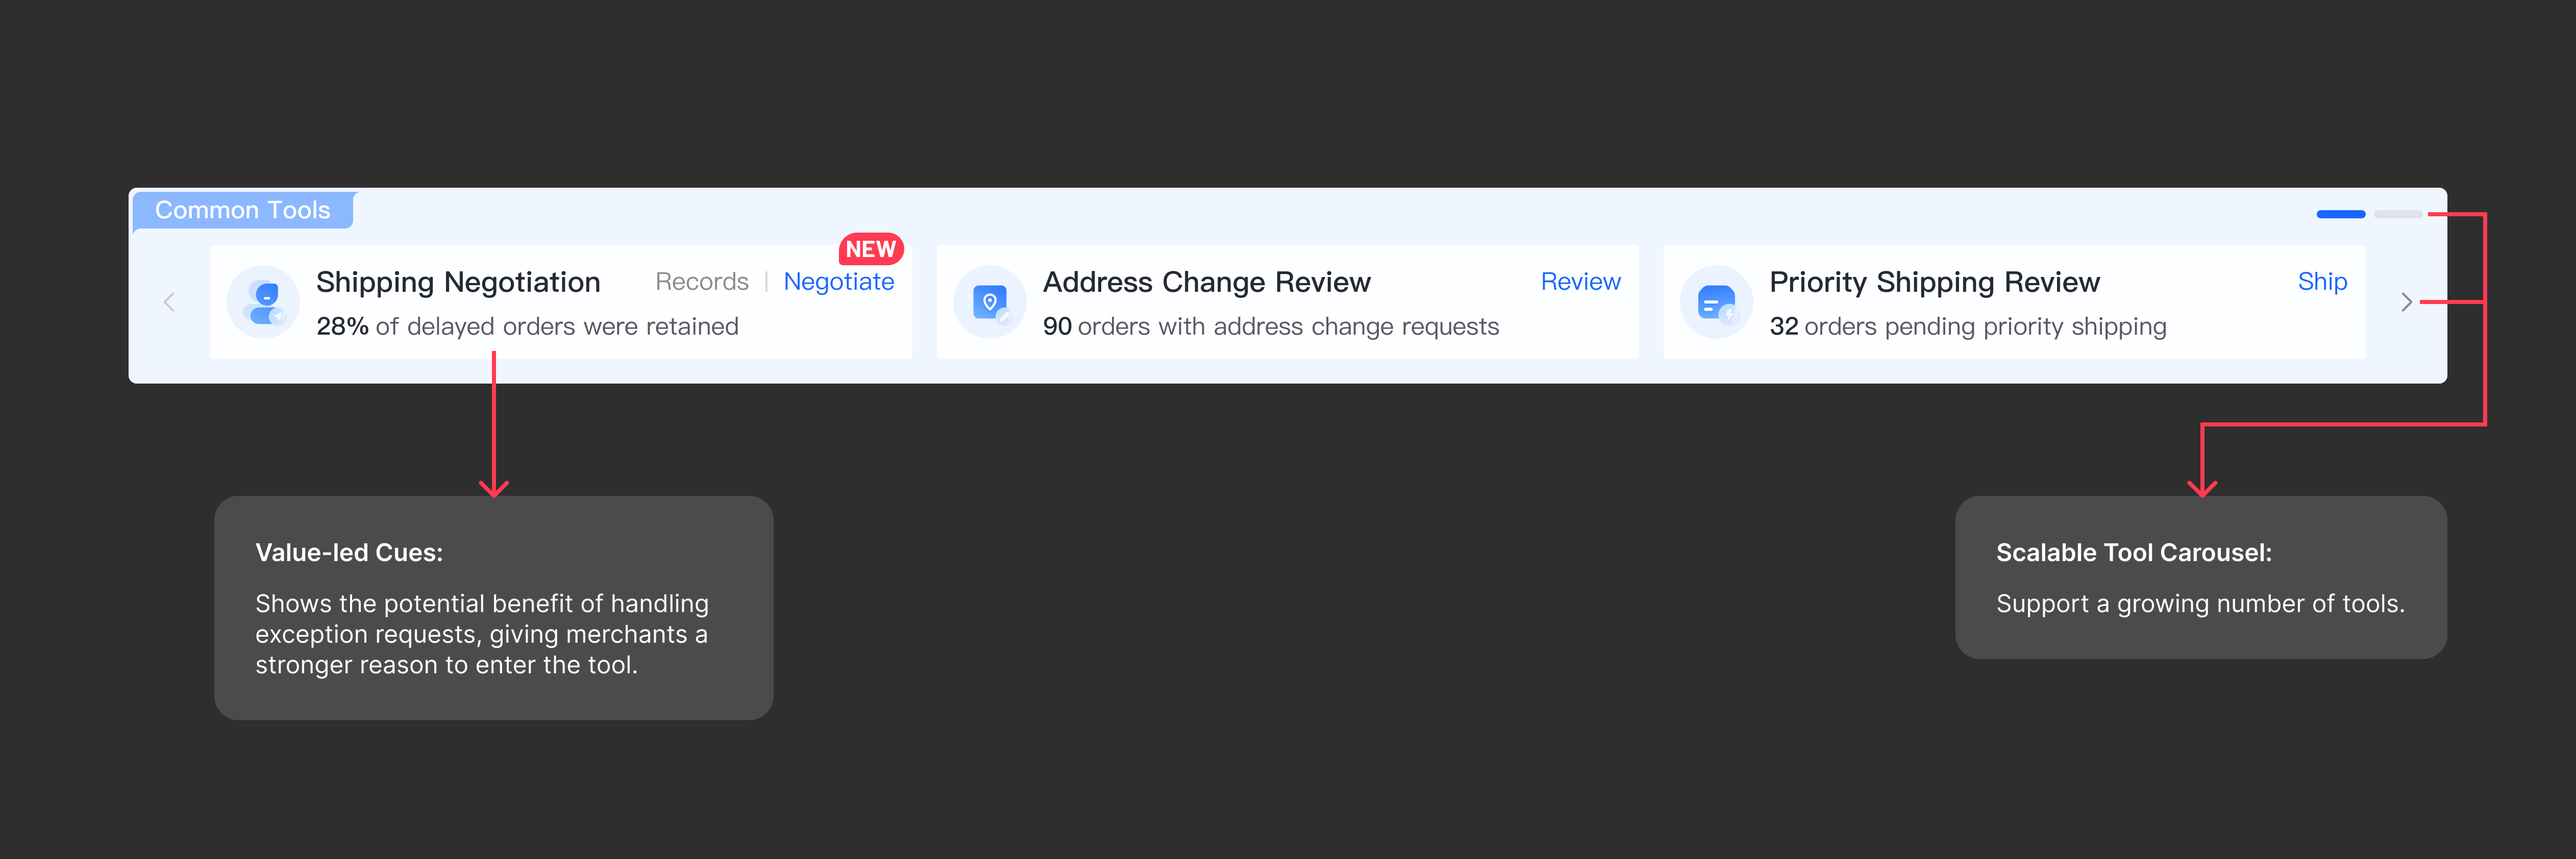
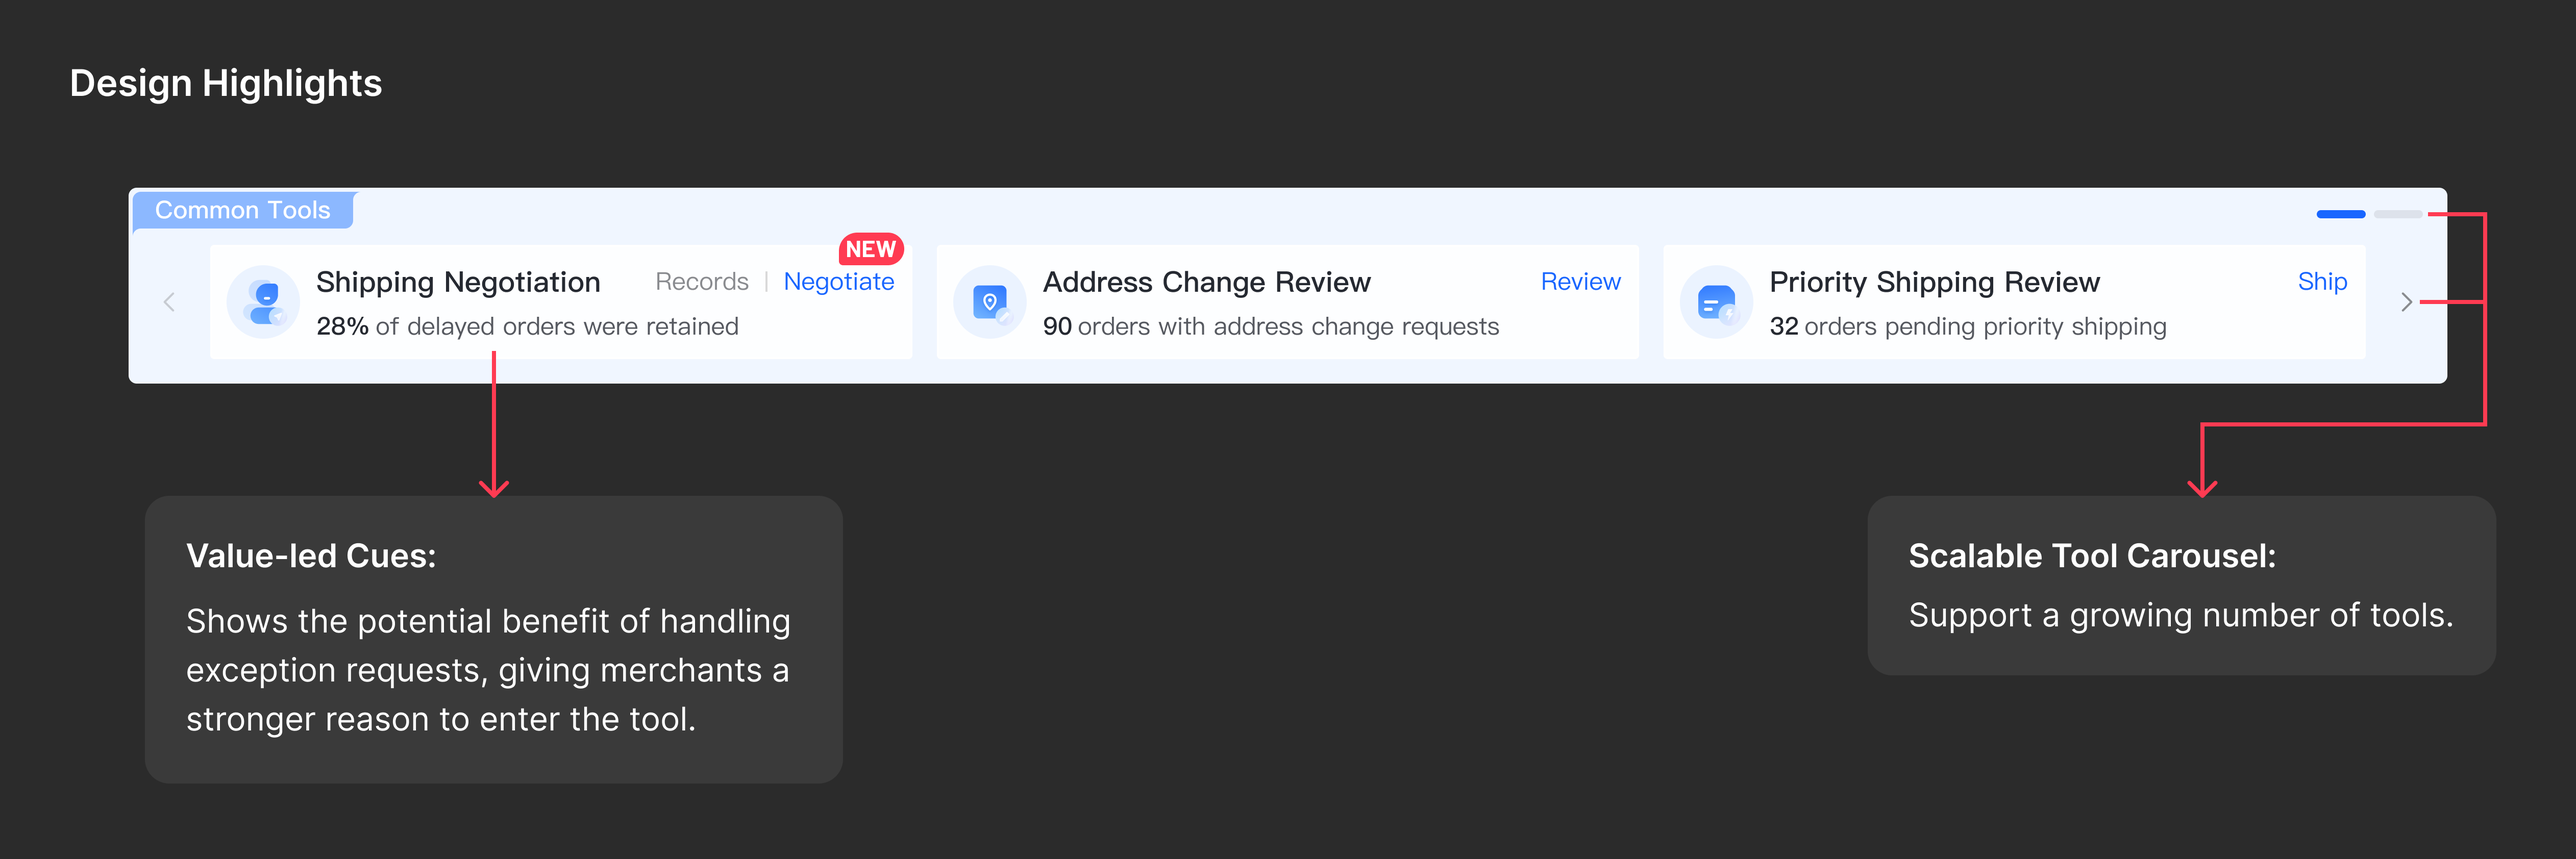
Shrink Solution video, remove redundant Design highlights label, update highlight image

diff --git a/bytedance.html b/bytedance.html
@@ -754,13 +754,10 @@ height="0" width="0" style="display:none;visibility:hidden"></iframe></noscript>
         </div>
         <p class="bt-compare-body">I surfaced exception tasks in Order Management and linked each one to the tool built to handle it, with a clear way back.</p>
       </div>
-      <video class="bt-iteration-video" autoplay loop muted playsinline>
+      <video class="bt-iteration-video" style="max-width:600px; margin:0 auto;" autoplay loop muted playsinline>
         <source src="bytedance/final version.mp4" type="video/mp4">
       </video>
-      <div class="bt-solution-block">
-        <p style="font-family:'Figtree',sans-serif; font-size:1.125rem; font-weight:500; color:#63BDEE; margin:0;">Design highlights</p>
-        <img class="bt-solution-img" src="bytedance/highlight.png" alt="Design highlights">
-      </div>
+      <img class="bt-solution-img" src="bytedance/highlight.png" alt="Design highlights">
     </div>
   </section>
 
